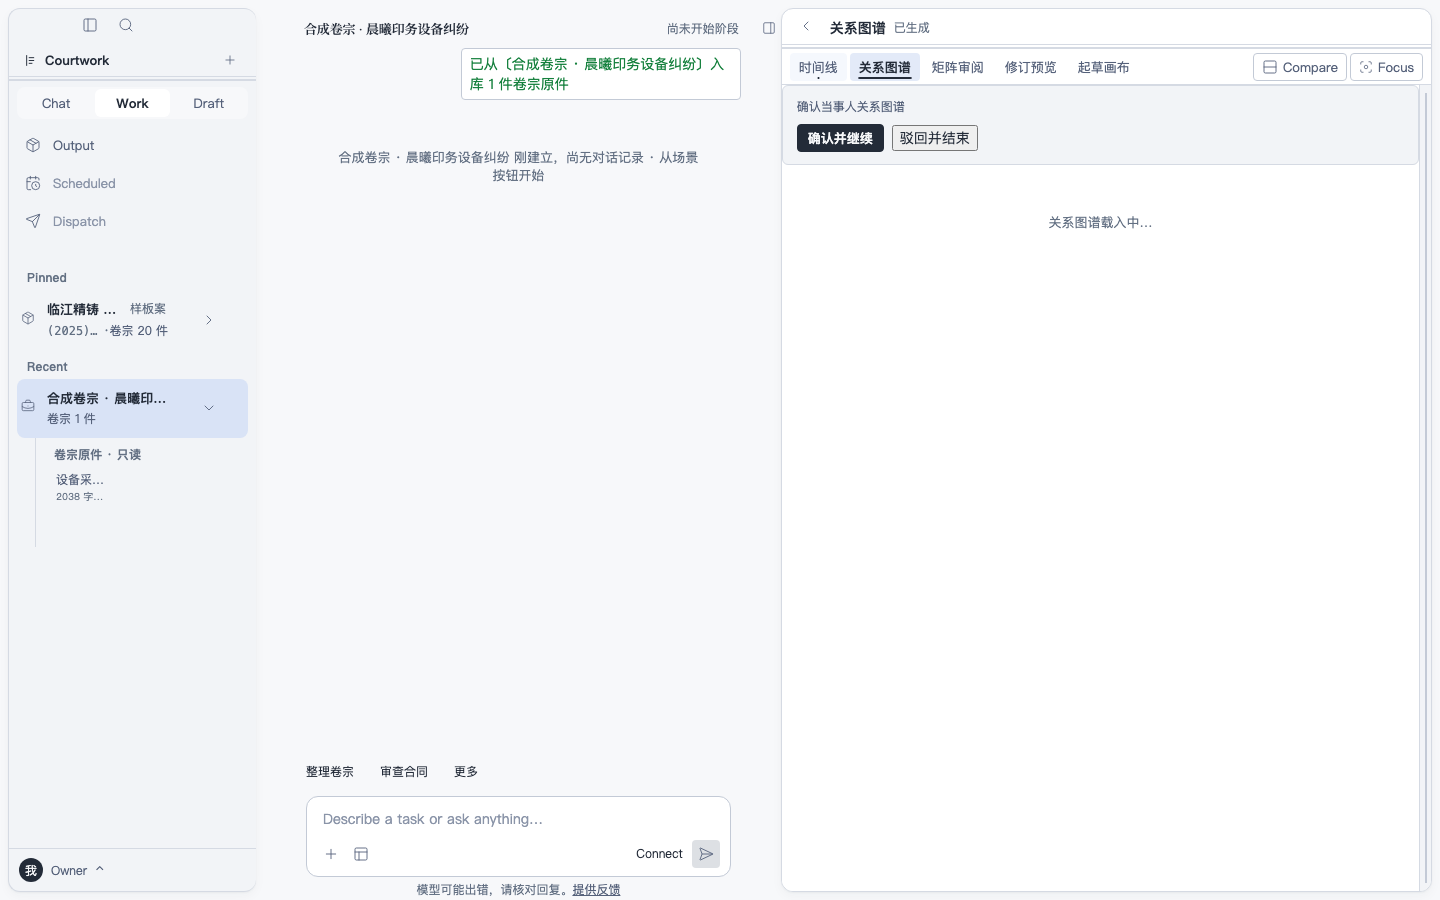
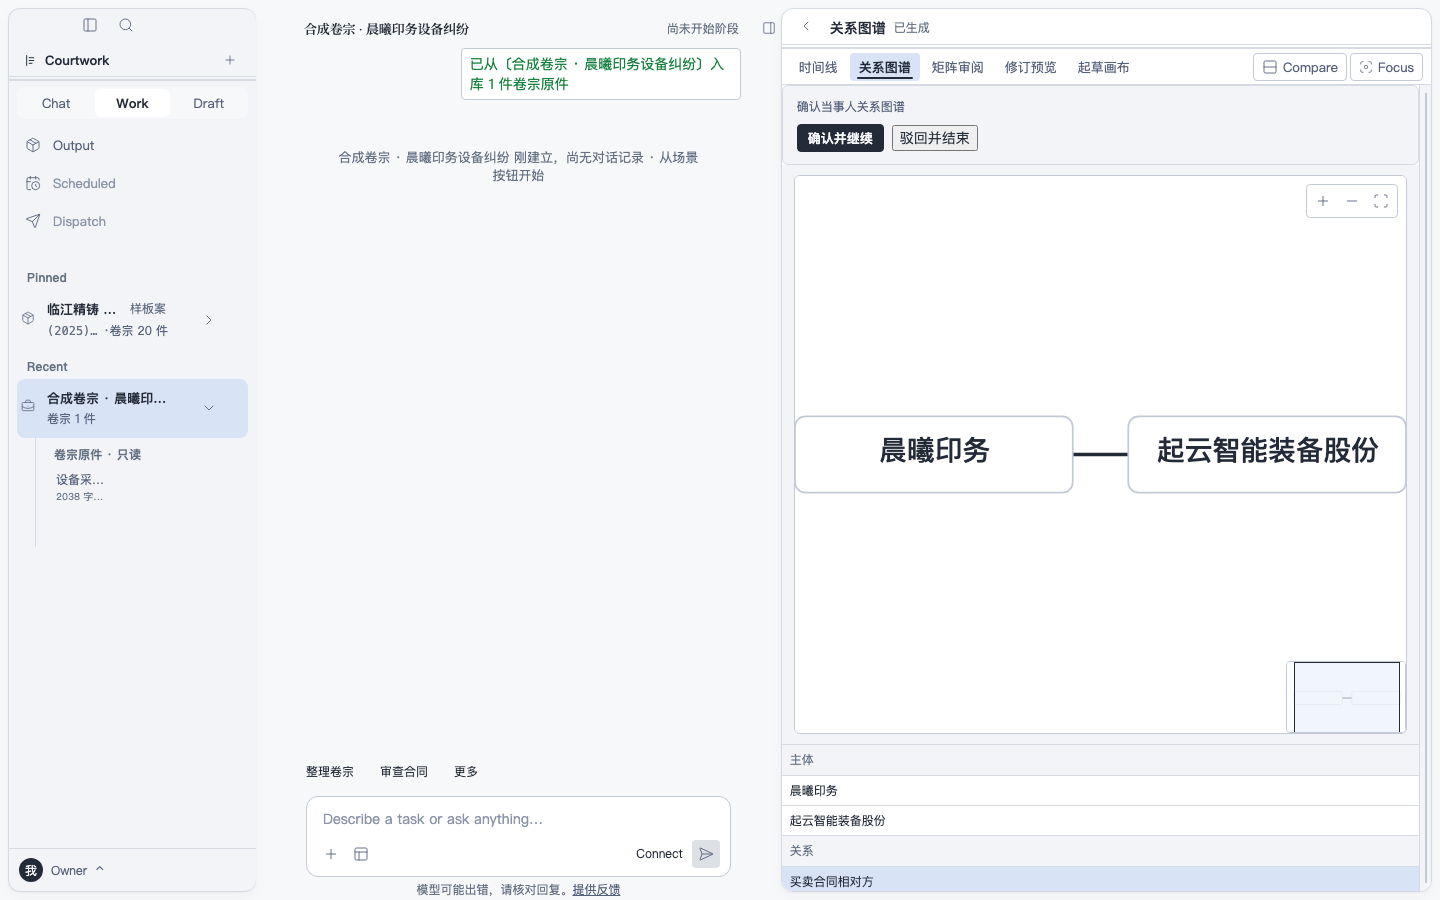
docs(spec): LEGAL-FIVE-FACES-1 实现回执——12 枚缺陷清单、八修四不修与八相门数字
- 缺陷清单零悬置：修 8（D1–D8）、显式不修 4（D9 随 D10 裁定；D10/D11 [需架构拍板]；D12 边界登记）。
- 两枚架构拍板请求：①Timeline/PartyGraph/ReviewMatrix 缺 draftSchemaId+citationBinding，
  模型在出坐标（不变量二），故「回到原件」此刻不接通；②一 matter 内多场景产物不并存。
- 新增概念两枚各带「为何非加不可」；成熟 OSS 复核结论＝保留自研（零新依赖）。
- 六条偏离在册（含包侧 S2 launch 声明与 golden 重铸、ViewApplicability 删除、端口更名、
  work-live 门判据改锚 getProductionScenario 并加 buildIntakeRunInput 一条）。
- 真 key 真模型五面回合 external-validated **blocked**，如实登记补证路径。

随批：work-command 删已零消费的 getS3Scenario import（lint 抓出），门判据同批改锚。
八相：build/lint 绿、root 1941、desktop 769、cargo 250 过/1 忽略、PW 371（floor 365）、
site:guard PASS、sidecar 547,893 B/951acf8e… 零迁、App 高水位 2282→2279。

diff --git a/apps/desktop/src/work/work-command.ts b/apps/desktop/src/work/work-command.ts
@@ -81,7 +81,6 @@ import {
   createLegalS3ScenarioDeps,
   createProductionS3ToolRegistry,
   getProductionScenario,
-  getS3Scenario,
   mapReviewResolutionToResume,
   resolveSessionMaterials,
   toMaterialInputs,

diff --git a/apps/desktop/specs/LEGAL-FIVE-FACES-1.md b/apps/desktop/specs/LEGAL-FIVE-FACES-1.md
@@ -1,0 +1,236 @@
+# LEGAL-FIVE-FACES-1 · 五面全链走查与收口（实现回执）
+
+状态：实现完成，待独立验收（本会话不自我验收）。
+
+分支 `claude/legal-five-faces-1`（base `main@6865463`，worktree 分树，与 `CHAT-MD-TABLE-2` 并行；
+Playwright 用独占端口 `15433`，遵排程律「全仓同刻至多一条全链」）。
+
+权威：`docs/architecture/implementation-readiness.md`「2026-08-05 真机试用观察批」`LEGAL-FIVE-FACES-1`
+行为票面唯一真值；ADR-015（解耦相总纲）、ADR-010（Work 命令端口）、ADR-012 决定四（宿主 blueprint）；
+先例回执 `apps/desktop/specs/GENERIC-PACK-1.md`（四面已全迁 `kind:'component'`，走查对象是迁移后的现行链）。
+
+产品定容（同批）：**Legal 轻量包当期验收上限＝合成卷宗上五面全链可演示**；细分实践颗粒度的扩深
+不入本票。本票硬边界：只收敛不扩面，不新增法律细分颗粒。
+
+---
+
+## 一 · 走查对象与方法
+
+走查在**合成卷宗（晨曦印务设备纠纷）语境的 grant 真实案**上进行，逐面从**场景条按钮的真实调用**
+走到**面内交互**。合同审查面（修订预览）已 OK，作对照基线。
+
+方法两段：①现行链源码走查（场景声明 → 场景条派生 → 启动路由 → 生产命令端口 → 执行器 → 投影 →
+renderer → 面内控件），逐环记「调用微妙处」；②以 e2e 在真实链上复现（`tests/e2e/legal-five-faces-1.spec.ts`），
+每条缺陷先有红证再改。
+
+**模型回合边界（如实登记）**：本票所有全链证据的模型回合由 DEV/E2E turn 樁承载。真 key 真模型的
+五面回合**未执行**——本会话无 key，按票面纪律记 **external-validated blocked**，不得以樁结果宣称。
+补证路径：产品负责人持 key 真机走五面并回填截图链（同 `PI-LANE` 真 key 复核的登记形态）。
+
+---
+
+## 二 · 缺陷清单与逐条处置（零悬置）
+
+12 枚。**修 8 枚、显式不修 4 枚**（不修者各带理由与去向，其中两枚是 `[需架构拍板]`）。
+
+| # | 所在面 | 缺陷 | 处置 |
+|---|---|---|---|
+| D1 | 时间线／关系图谱／矩阵审阅 | 场景条在 production 只渲染「审查合同」：驱动声明 `productionScenarioIds: ['legal.S3']`；且 **S2 连 `launch` 声明都没有**——矩阵审阅面在产品里零启动入口 | **修**：可启动集改装配点声明的闭集；S2 补 `launch` 声明 |
+| D2 | 同上 | 生产命令端口硬拒非 S3（`scenarioId !== legal.S3 → rejected/invalid_scope`）；账本头 `scenarioId` 恒写 S3；续行时场景身份也写死 S3 | **修**：闭集判定；头记实际场景；续行身份从信封读回 |
+| D3 | 起草画布 | 「起草答辩状」是**死钮**：点击 → 适用性拦截 →「该工作面暂不适用于合同审查」（真机观察②原形） | **修**：适用性声明退役 |
+| D4 | 四张具名面 | 空态无下一步指引（承真机试点收尾拍板第四条：显式「暂不适用」正确但无指引） | **修**：`describeViewProducer` registry 派生指引 |
+| D5 | 时间线／图谱／矩阵 | production 的 `onLaunchScenario` **只开视图不起跑**；S1 的 `uiTemplateId` 是 passive 面，连视图都开不了——点了零反应 | **修**：launch 路由三分支（view／带预检表单／无预检即起跑） |
+| D6 | 时间线／图谱／矩阵 | 产物门禁（`confirmation_requested`）在面内**无确认控件**：场景永远停在 paused，全链最后一步断掉 | **修**：面内门禁确认条 |
+| D7 | 壳 | 两处垂类文案硬写：运行中 composer 提示「合同审查正在运行…」、取消控件恒「停止审查」；端口两条 rejected 文案（未就绪／占用）也写死合同审查 | **修**：中性化；取消文案随运行场景派生 |
+| D8 | 四张具名面 | 面头／大纲计数在非 demo 案**恒「尚无」**——面上正渲着时间线，抬头却说没有 | **修**：按本面此刻真有无产物派生 |
+| D9 | 时间线／图谱／矩阵 | 引语的「回到原件」恒 disabled「尚未接通」（合同审查面已由 `CONTRACT-TRACE-1` 接通） | **不修**（理由见三节）：根因是 D10；此刻接通等于按**模型自报坐标**跳转，违反不变量二 |
+| D10 | `packages/legal` 包契约 | `legal.Timeline`／`legal.PartyGraph`／`legal.ReviewMatrix` 无 `draftSchemaId` 与 `citationBinding`——模型须**直接产 `sourceAnchors`**（坐标由模型出），与不变量二「无锚不落格；模型出引语，系统出坐标」相悖；真模型下 S1/S2 因此结构性易失败 | **不修**，`[需架构拍板]`（三节） |
+| D11 | 跨场景 | 起新场景 `dispatch __clear__` 清空会话投影：跑完 S1 再跑 S2，时间线／图谱面回到空态——产物只活在自己 session 的投影里 | **不修**，`[需架构拍板]`（三节） |
+| D12 | S1／S2 | 无会话指针 ⇒ 无跨切案／重启的恢复入口 | **不修**（显式边界，随 D11 同批；四节「未做与为何」） |
+
+---
+
+## 三 · 三枚不修项的理由（含两枚架构拍板请求）
+
+### D10 `[需架构拍板]` · 三枚产物缺引用闭环声明
+
+`legal.RiskList` 有 `draftSchemaId: 'legal.RiskListDraft'` 与 `citationBinding`（模型出 `quoteClaims`、
+citation resolver 铸 `sourceAnchors`）。Timeline／PartyGraph／ReviewMatrix **三枚都没有**，故它们的
+`sourceAnchors`（Timeline/PartyGraph 还是 `min(1)` 必填）只能由模型自己写出 `fileId`/`textRange`/
+`textLayerVersion`——**模型在出坐标**。
+
+两个后果：①面内「回到原件」不能接通（D9）——跳到一个系统从未校验过的坐标，比不接通更糟；
+②真模型下 S1/S2 极易在 schema 校验处失败（本票的樁能过，是因为樁按格式写死）。
+
+请求裁定：为三枚补 Draft schema 与 `citationBinding`（形态循 RiskList 先例）。这是**包契约变更**
+（新增 schema + descriptor 字段 + JSON Schema drift + golden），按治理不变量二属架构角色拍板，
+实现会话不得自改 schema 语义，故本票只登记不动手。裁定落地前，D9 保持显式 disabled。
+
+### D11 `[需架构拍板]` · 一个 matter 内多场景产物不并存
+
+现行会话模型是「每案至多一个活跃 session，投影随起跑清空」。五面各自的链因此都能走通
+（S1 一次运行内产出时间线＋图谱两枚，两面同活），但**跨场景**不成立：跑完 S1 再跑 S2，
+前者的两面回空态。
+
+这不是一处接线遗漏，而是「session 是产物容器」这条既有语义的直接推论；改法（matter 级产物账本 /
+多 session 并存 / 跨 session 晋升）触持久与投影契约，属架构拍板范围。本票登记，不在实现层暗改。
+
+### D9 · 「回到原件」不接通
+
+见 D10。**不修不是不做**：它是 D10 裁定的下游，裁定落地后随票接通。此刻把 disabled 改成可点，
+是把「系统未校验的坐标」伪装成可信定位——比现行显式态更坏。
+
+---
+
+## 四 · 已修八枚的实现面与判据
+
+### ① 可启动场景闭集（D1/D2）
+
+- `PRODUCTION_SCENARIO_IDS = [legal.S1, legal.S2, legal.S3]` 住装配点 `work/legal-s3-binding.ts`；
+  端口只问「在不在闭集内」，闭集外 `rejected/invalid_scope` 且**零账本**（原判据逐字保留）。
+  S6 不入闭集（确定性执行器另一条链，不扩面）；S4 是视图入口不是场景启动（包声明 `launch.kind='view'`）。
+- `getProductionScenario` 闭集外/未注册一律显式失败——**不回落 S3**（「不认识的场景静默当成合同审查」
+  正是要消灭的静默降级）。
+- `buildIntakeRunInput`：无预检场景的运行输入。与 S3 共用同一条「缺工具输入必须显式阻断」判据
+  （把 S3 递进来照样红），故不是绕开 preflight 的第二扇门。
+- `deriveCaseFileFromMaterials`：无主合同语义的卷宗清单派生，全部 `supporting`——**结构上写不出**
+  `contract.primary`，主合同仍只在用户显式选定时出现。
+- 账本头 `scenarioId`／`scenarioFingerprint` 记实际场景；续行的场景身份改从**信封**读回
+  （`store.snapshot().scenarioId`），此前写死 S3 会让非 S3 会话以错误场景声明重放。
+
+`LegalS3WorkCommand`／`createLegalS3WorkCommand` 随之更名 `LegalWorkCommand`／`createLegalWorkCommand`
+（端口已服务三枚场景，旧名是不实宣称）；`startWithPreflight`／`resolveReview` 仍是 S3 专属入口，名不动。
+
+### ② 起跑路由与面内门禁（D5/D6）
+
+- `useWorkRunLifecycle.start(scenarioId, params)` 显式携场景身份——此前签名里没有这一枚，
+  「能起跑的只有 S3」这条事实就写死在了实现里。
+- 无预检场景走 `startIntake`：全部 ready 材料入 `materialRefs`、零材料时显式阻断并说下一步。
+- `resolveLaunchTargetView`：场景启动后落到哪张面＝先认场景自己的 `uiTemplateId`，认不出
+  （S1 的 `case-intake-panel` 是 passive）再落它首枚有在册工作面的产出物。全 registry 派生。
+- `GateConfirmBar`（`verticals/legal/`）：文案取账本 `gateLabel`，只在 `artifactType` 与本面一致时出现，
+  决定经生产端口 `resume` 落账（留人确认，零本地伪造）。RiskList 有自己的逐条处置面，故驱动侧把它
+  排除在 `pendingGate` 之外。
+
+### ③ 适用性退役与空面指引（D3/D4）
+
+`ViewApplicability` 与「该工作面暂不适用于合同审查」双双删除——那两枚是「production 只能跑 S3」的
+影子：四张在册面被声明为「不适用」，而真正的事实是产出它们的场景无从起跑。空面改说
+`${title}尚未生成 · 由「${launchLabel}」场景产出，在下方场景条启动`，指引由 `describeViewProducer`
+从 registry 三段事实（场景 `outputArtifacts` → artifact `uiTemplateId` → blueprint `view`）派生，
+**壳零垂类字面量**；说不出「怎么开始」的场景（不在可启动闭集）不作为指引。
+
+### ④ 文案中性化与面头计数（D7/D8）
+
+`runningControlCopy` 由静态字段迁入读出面，随**正在跑的那一枚**派生（S3 仍「停止审查」，
+其余取场景名）；composer 运行中提示与端口两条 rejected 文案中性化。面头/大纲计数外提为
+`preview/workbench-views.ts` 的 `workbenchViewMeta`，非 demo 案按本面真有无产物说话。
+
+---
+
+## 五 · 新增概念登记（复杂度节制条）
+
+本票新增**两枚**，均无既有落点可用：
+
+1. **`PRODUCTION_SCENARIO_IDS` 闭集 + `buildIntakeRunInput`**（装配点）。
+   *为何非加不可*：可启动性此前是端口里的一个 `!==` 比较，加第二枚场景就得在端口里长出第二条
+   分支。闭集把「哪些场景可在真实案上跑」变成装配点的一行声明，端口与壳都不认识 id 语义；
+   无预检运行输入是它的必要配套（S1/S2 没有 preflight 表单，但仍须过同一条工具输入判据）。
+   不新增持久格式、不新增状态机。
+2. **`GateConfirmBar` + `VerticalWorkSurfaceValue.pendingGate/confirmGate`**。
+   *为何非加不可*：门禁确认此前只有 RiskList 一条逐条处置路径（住提交编排）。S1/S2 的产物门禁
+   需要的是**两枚终态决定**，复用逐条处置面等于给没有逐条语义的产物造一套假的审阅编排。
+   本件只有「读账本里的待确认 + 两枚按钮 + 调 resume」，无本地状态、无第二真源。
+
+`describeViewProducer`／`resolveLaunchTargetView`／`workbenchViewMeta` 三枚是**纯派生函数**，不算新概念
+（无新状态、无新契约面，全部从既有 registry/blueprint 声明现算）。
+
+### 成熟 OSS 复核（工程纪律条，以现行 HEAD 真实缺口为基线）
+
+本票新增 UI 面＝面内门禁确认条（一行说明＋两枚按钮，样式复用既有 `work-recover` 族）与空面指引
+一行文案。**结论：保留自研**。理由一手核实自本仓现状而非 star 数：①候选类目（表单/对话/确认组件库）
+解决的是渲染与可达性，而本件的全部实质在**确认账本与 fail-closed 判定**——按纪律不得因接库外包；
+②渲染复杂度为零（零新增 CSS 规则、零新色、零阴影），引入依赖是净负；③本件读的是 `SessionEvent`
+的 `gateLabel/artifactType/requestId`，任何通用件都得先被包一层适配才能用。故本轮无新增依赖。
+
+---
+
+## 六 · 红证与判据（撤任一修复即复红）
+
+单测（`apps/desktop`，vitest）：
+
+| 谱 | 例数 | 判据 |
+|---|---|---|
+| `work/production-scenarios.test.ts` | 9 | 闭集恰三枚；闭集外取用即抛、start 即 `rejected/invalid_scope`；S2 真跑到门禁且**账本头记 legal.S2**（撤「头记实际场景」即红：仍记 S3）；通用 resume 续行到 `scenario_completed`；无预检运行输入零工具输入；S3 递进本路径仍显式阻断；`deriveCaseFileFromMaterials` 全 supporting 且未就绪材料不入 |
+| `preview/view-producer.test.ts` | 5 | 时间线/图谱同出 S1、矩阵出 S2；闭集外场景不作指引；零垂类准入即零指引 |
+
+首红实证（TDD）：两谱在实现前跑 `tsc -b` 全部红（`has no exported member` 七项，desktop 的真门是
+`tsc -b` 非 vitest），实现后绿。
+
+e2e（`tests/e2e/legal-five-faces-1.spec.ts`，4 例）与**按本意改写的既有断言**：
+
+- ①② 整理卷宗一键起跑 → 时间线真渲＋抬头「已生成」（D8 判据）→ 门禁「确认事件时间线」→ 确认续行
+  → 关系图谱面第二道门禁 → 确认 → 终局（门禁条消失 **且** 两面产物仍在册 **且** 零空态——
+  「条消失」单独不足以证明走完，失败也会消失）。
+- ③ 矩阵审阅按钮 → 矩阵真渲 → 门禁「确认矩阵审阅结果」→ 确认 → 终局。
+- ⑤ 起草答辩状 → 起草画布可编辑（键入后正文可读回）；`preview-host` 不含「暂不适用」。
+- 空面指引：未跑 S2 时矩阵面说得出产出者与启动方式。
+- `work-live.spec` 两处「该工作面暂不适用于合同审查」断言按本意改写为起草画布可用（D3 的既有红证：
+  这两条在修复前是绿的，正是缺陷被断言固化的形态）；`composer.spec` 禁用文案随中性化更新。
+
+**樁的一处如实登记**：turn 樁按六段组装的「本次产出目标地址」`stepId` 选脚本产物。首版按
+「请求里出现过 `legal.Timeline`」匹配——步骤树段把三枚 artifactType 全列了出来，于是每一步都回
+同一枚产物，实测首步即 target 不符被拒收。按调用计数选同样不可（失败重试即错位）。
+
+---
+
+## 七 · 八相全量门（本会话自跑，分支 tip）
+
+| 相 | 结果 |
+|---|---|
+| build | `pnpm -r build` 绿 |
+| lint | 绿 |
+| root test | **1941/1941**（与 base 同值：root 面不含 desktop 谱；本票的包侧改动只重铸一枚 golden） |
+| desktop test | **769/769**（755 → 769：新增 9+5，既有 0 净减） |
+| cargo | **250 过 / 1 忽略**（与 base 同值；pi-lane TS/Rust 本票零改动。首跑两红为本树缺 headless 制品，`build:headless-sidecar` 后复绿——环境条件红，非树上红） |
+| Playwright | **371/371**（floor 365；`test:e2e` 前置静态门链全通过，独占端口 15433） |
+| site:guard | PASS |
+| sidecar | **547,893 B / `951acf8e…` 零迁**（与 base 逐字同值） |
+
+App 高水位 **2282 → 2279**（`viewCount` 外提为 `workbenchViewMeta`，抵消本票在 App 内的净增）。
+零泄漏门受检面 **174 → 176**（新增 `preview/view-producer.ts` 与其谱；`verticals/` 内绑定仍 6 处）。
+
+---
+
+## 八 · 偏离登记（待验收/架构追认）
+
+1. **包侧一处改动**：`legal.S2` 补 `launch` 声明（label/tone/kind，无预检字段），形态循 S1/S6 先例。
+   descriptor hash golden 重铸一枚（`layout-golden.test.ts`）；`schema-exemplar` 未触及
+   （其 P0-S02 锚 `presentation/index.ts`，本票未动该文件——现读实测门通过）。
+   理由：无此声明则「矩阵审阅」在产品里没有任何启动入口，票面「场景按钮真实调用」不可达。
+2. **`ViewApplicability` 契约删除**（非弃用）：循「不保留兼容层」原则，零声明者的机制不留空壳。
+   代价是 `work-live.spec` 两条既有断言按本意改写——已在六节登记为 D3 的红证形态。
+3a. **`assert-work-live-contracts` 判据改锚**：场景取用由 `getS3Scenario` 改锚 `getProductionScenario`
+   （同一装配模块的同一职责），并**新增** `buildIntakeRunInput` 一条——一条未减、加了一条。
+   起因是 lint 抓出 `getS3Scenario` 在端口内已零消费（门要求它在场，码里却已不用它，两者只能有一个是对的）。
+3. **端口更名** `LegalS3WorkCommand → LegalWorkCommand`：名实相符，非语义改动；
+   `assert-work-live-contracts` 的既有判据（`buildS3RunInput`/`getS3Scenario`/`mapReviewResolutionToResume`…）
+   逐条仍在且仍绿，一条未减。
+4. **S1/S2 不写会话指针**：指针记录携 `contractMaterialId`、恢复入口文案属合同审查，借它承载第二类
+   场景会把「上次审查」指向一次阅卷。故显式不写（D12），跨会话恢复随 D11 裁定。
+5. **`runResume` 的占位 header 仍写 `S3_SCENARIO_ID`**：该 header 只在「信封不存在」时被用到，
+   而那条路径本就以 typed 失败收场（行为与基线逐字相同）。登记而非顺手改，避免在无判据处动账本头。
+6. **S2 的 `tone: 'wide'`**：窄容器（≤520px）下驻「更多」弹层，同「卷宗整理」既有形态。空面指引
+   因此只说「在下方场景条启动」，不许诺按钮的具体位置。
+
+---
+
+## 九 · 报交验点
+
+本票六条退出证据：①五面各一条合成卷宗全链演示证据（`release/evidence/legal-five-faces-1-2026-08-07/`
+六帧：时间线／关系图谱／矩阵／修订预览／起草画布＋空面指引）；②缺陷清单零悬置（12 枚逐条处置，
+不修四枚各带理由与去向）；③撤任一修复复红（六节）；④八相全量门自跑登记（七节）；⑤定容边界遵守
+（未新增法律细分颗粒，未扩面）；⑥两枚 `[需架构拍板]` 与六条偏离在册。
+
+**不自我验收**：报 Codex 独立会话验收（独立 clean worktree、独立端口、守卫实际注入反例观察变红）。
+真 key 五面回合仍记 **blocked**，与产品负责人约真机截图链补证。
